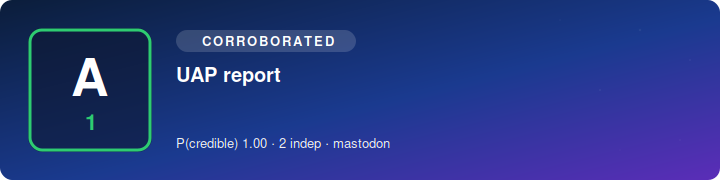
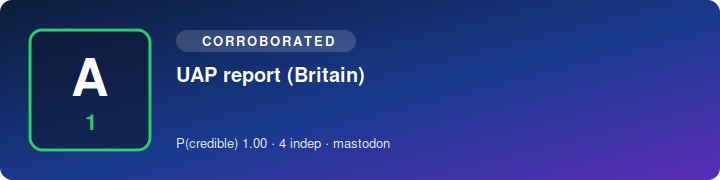
SITREP 2026-07-13 19:30 UTC

Changed region(s): [[0.3972, 0.3611, 0.5194, 0.4722], [0.3667, 0.75, 0.3972, 0.8333]]

diff --git a/index.html b/index.html
@@ -1,1 +1,1 @@
-<!doctype html><meta charset=utf-8><title>Science Bob News — SITREP</title><style>body{font:16px/1.5 system-ui,sans-serif;max-width:760px;margin:2rem auto;padding:0 1rem;color:#111}h1{font-size:1.5rem}h2{margin-top:1.6rem;border-bottom:1px solid #ddd;padding-bottom:.2rem}ul{list-style:none;padding:0}li{margin:.9rem 0}.hl{font-weight:600}.meta{color:#555;font-size:.85rem}.src{font-size:.85rem}.vid{font-size:.85rem;margin-top:.15rem}.card{display:block;max-width:100%;height:auto;border-radius:8px;margin:.4rem 0 .5rem}.upd{background:#fde68a;padding:0 .3rem;border-radius:.2rem;font-size:.75rem}.sub{color:#777;font-size:.85rem}footer{color:#777;font-size:.8rem;margin-top:2rem;border-top:1px solid #ddd;padding-top:.6rem}</style><h1>🛸 Science Bob News</h1><div class="sub">UAP / UFO / USO SITREP · updated 2026-07-13 19:20 UTC · automated</div><h2>Corroborated</h2><ul><li><img class="card" src="https://n4hy.github.io/sciencebobnews-site/card_c_1.svg" alt="" width="720" height="180"><div class="hl">UAP report (Britain)</div><div class="meta">reliability <b>A1</b> · P(credible)=1.0 · 3 independent source(s) · mastodon</div><div class="src"><a href="https://mast.lat/@MDT/116902480700455654">@MDT@mast.lat</a> · <a href="https://sociedad-noticias.com/2026/07/10/pentagono-publica-nuevos-videos-de-ovnis-difunde-el-registro-mas-nitido-de-un-uap/">@sociedad-noticias.com@sociedad-noticias.com</a></div></li><li><img class="card" src="https://n4hy.github.io/sciencebobnews-site/card_c_2.svg" alt="" width="720" height="180"><div class="hl">UAP report</div><div class="meta">reliability <b>A1</b> · P(credible)=1.0 · 3 independent source(s) · mastodon</div><div class="src"><a href="https://mastodon.social/@Mathrubhumi_English/116900592270182921">@Mathrubhumi_English</a> · <a href="https://mastodon.social/@danstafford/116897275469537224">@danstafford</a></div></li><li><img class="card" src="https://n4hy.github.io/sciencebobnews-site/card_c_3.svg" alt="" width="720" height="180"><div class="hl">Official UAP statement reported</div><div class="meta">reliability <b>A1</b> · P(credible)=1.0 · 2 independent source(s) · mastodon</div><div class="src"><a href="https://infosec.exchange/@n_dimension/116912312645826158">@n_dimension@infosec.exchange</a> · <a href="https://niwego.com/display/a081e5c3-266a-513b-928c-d65439022141">@x@niwego.com</a></div></li><li><img class="card" src="https://n4hy.github.io/sciencebobnews-site/card_c_4.svg" alt="" width="720" height="180"><div class="hl">UAP report</div><div class="meta">reliability <b>A1</b> · P(credible)=1.0 · 2 independent source(s) · mastodon</div><div class="src"><a href="https://mastodon.online/@KilleansRow/116881926520252497">@KilleansRow@mastodon.online</a> · <a href="https://mstdn.ca/@NMBA/116901382508640700">@NMBA@mstdn.ca</a></div></li></ul><h2>Developing / unconfirmed</h2><ul><li><img class="card" src="https://n4hy.github.io/sciencebobnews-site/card_d_1.svg" alt="" width="720" height="180"><div class="hl">UAP report (Deep)</div><div class="meta">reliability <b>A1</b> · P(credible)=1.0 · 1 independent source(s) · mastodon</div><div class="src"><a href="https://mastodon.au/@vibewire/116886730265403632">@vibewire@mastodon.au</a></div></li><li><img class="card" src="https://n4hy.github.io/sciencebobnews-site/card_d_2.svg" alt="" width="720" height="180"><div class="hl">UAP report</div><div class="meta">reliability <b>A1</b> · P(credible)=1.0 · 1 independent source(s) · mastodon</div><div class="src"><a href="https://rbfirehose.com/2026/07/11/people-pentagon-releases-new-ufo-records-detailing-decades-of-unexplained-aerial-encounters/">@researchbuzz_firehose@rbfirehose.com</a></div></li><li><img class="card" src="https://n4hy.github.io/sciencebobnews-site/card_d_3.svg" alt="" width="720" height="180"><div class="hl">Official UAP statement reported</div><div class="meta">reliability <b>A1</b> · P(credible)=1.0 · 2 independent source(s) · mastodon</div><div class="src"><a href="https://pinsapo.cc/@cypress/116897930814558805">@cypress@pinsapo.cc</a> · <a href="https://fed.brid.gy/r/https://in.mashable.com/science/111832/ufo-disclosure-2026-fourth-batch-of-40-files-released-by-department-of-war-heres-how-to-download">@in.mashable.com@web.brid.gy</a></div></li><li><img class="card" src="https://n4hy.github.io/sciencebobnews-site/card_d_4.svg" alt="" width="720" height="180"><div class="hl">UAP report (McMinnville)</div><div class="meta">reliability <b>A1</b> · P(credible)=1.0 · 1 independent source(s) · rumble</div><div class="src"><a href="https://www.youtube.com/watch?v=7OT6uJ0yzVY">@podcast</a></div><div class="vid">📹 <a href="https://www.youtube.com/watch?v=7OT6uJ0yzVY">video</a></div></li><li><img class="card" src="https://n4hy.github.io/sciencebobnews-site/card_d_5.svg" alt="" width="720" height="180"><div class="hl">UAP whistleblower testimony reported (Frank)</div><div class="meta">reliability <b>A1</b> · P(credible)=1.0 · 1 independent source(s) · rumble</div><div class="src"><a href="https://www.youtube.com/watch?v=CxvFVjJKZtA">@podcast</a></div><div class="vid">📹 <a href="https://www.youtube.com/watch?v=CxvFVjJKZtA">video</a></div></li></ul><footer><b>Powered by Science Bob News.</b> Free to use with credit (see LICENSE). Headlines are factual restatements in the engine's own words; click sources for originals. Single-origin reposts collapse to one source; prosaic candidates flagged where offered.</footer>
+<!doctype html><meta charset=utf-8><title>Science Bob News — SITREP</title><style>body{font:16px/1.5 system-ui,sans-serif;max-width:760px;margin:2rem auto;padding:0 1rem;color:#111}h1{font-size:1.5rem}h2{margin-top:1.6rem;border-bottom:1px solid #ddd;padding-bottom:.2rem}ul{list-style:none;padding:0}li{margin:.9rem 0}.hl{font-weight:600}.meta{color:#555;font-size:.85rem}.src{font-size:.85rem}.vid{font-size:.85rem;margin-top:.15rem}.card{display:block;max-width:100%;height:auto;border-radius:8px;margin:.4rem 0 .5rem}.upd{background:#fde68a;padding:0 .3rem;border-radius:.2rem;font-size:.75rem}.sub{color:#777;font-size:.85rem}footer{color:#777;font-size:.8rem;margin-top:2rem;border-top:1px solid #ddd;padding-top:.6rem}</style><h1>🛸 Science Bob News</h1><div class="sub">UAP / UFO / USO SITREP · updated 2026-07-13 19:30 UTC · automated</div><h2>Corroborated</h2><ul><li><img class="card" src="https://n4hy.github.io/sciencebobnews-site/card_c_1.svg" alt="" width="720" height="180"><div class="hl">UAP report</div><div class="meta">reliability <b>A1</b> · P(credible)=1.0 · 2 independent source(s) · mastodon</div><div class="src"><a href="https://mast.lat/@MDT/116902480700455654">@MDT@mast.lat</a> · <a href="https://sociedad-noticias.com/2026/07/10/pentagono-publica-nuevos-videos-de-ovnis-difunde-el-registro-mas-nitido-de-un-uap/">@sociedad-noticias.com@sociedad-noticias.com</a></div></li><li><img class="card" src="https://n4hy.github.io/sciencebobnews-site/card_c_2.svg" alt="" width="720" height="180"><div class="hl">UAP report</div><div class="meta">reliability <b>A1</b> · P(credible)=1.0 · 3 independent source(s) · mastodon</div><div class="src"><a href="https://mastodon.social/@Mathrubhumi_English/116900592270182921">@Mathrubhumi_English</a> · <a href="https://mastodon.social/@danstafford/116897275469537224">@danstafford</a></div></li><li><img class="card" src="https://n4hy.github.io/sciencebobnews-site/card_c_3.svg" alt="" width="720" height="180"><div class="hl">Official UAP statement reported</div><div class="meta">reliability <b>A1</b> · P(credible)=1.0 · 2 independent source(s) · mastodon</div><div class="src"><a href="https://infosec.exchange/@n_dimension/116912312645826158">@n_dimension@infosec.exchange</a> · <a href="https://niwego.com/display/a081e5c3-266a-513b-928c-d65439022141">@x@niwego.com</a></div></li><li><img class="card" src="https://n4hy.github.io/sciencebobnews-site/card_c_4.svg" alt="" width="720" height="180"><div class="hl">UAP report (Britain)</div><div class="meta">reliability <b>A1</b> · P(credible)=1.0 · 4 independent source(s) · mastodon</div><div class="src"><a href="https://spacey.space/@spaceflight/116914303734987699">@spaceflight@spacey.space</a> · <a href="https://infosec.exchange/@n_dimension/116910406370762601">@n_dimension@infosec.exchange</a></div></li></ul><h2>Developing / unconfirmed</h2><ul><li><img class="card" src="https://n4hy.github.io/sciencebobnews-site/card_d_1.svg" alt="" width="720" height="180"><div class="hl">UAP report (Deep)</div><div class="meta">reliability <b>A1</b> · P(credible)=1.0 · 1 independent source(s) · mastodon</div><div class="src"><a href="https://mastodon.au/@vibewire/116886730265403632">@vibewire@mastodon.au</a></div></li><li><img class="card" src="https://n4hy.github.io/sciencebobnews-site/card_d_2.svg" alt="" width="720" height="180"><div class="hl">UAP report</div><div class="meta">reliability <b>A1</b> · P(credible)=1.0 · 1 independent source(s) · mastodon</div><div class="src"><a href="https://rbfirehose.com/2026/07/11/people-pentagon-releases-new-ufo-records-detailing-decades-of-unexplained-aerial-encounters/">@researchbuzz_firehose@rbfirehose.com</a></div></li><li><img class="card" src="https://n4hy.github.io/sciencebobnews-site/card_d_3.svg" alt="" width="720" height="180"><div class="hl">Official UAP statement reported</div><div class="meta">reliability <b>A1</b> · P(credible)=1.0 · 2 independent source(s) · mastodon</div><div class="src"><a href="https://pinsapo.cc/@cypress/116897930814558805">@cypress@pinsapo.cc</a> · <a href="https://fed.brid.gy/r/https://in.mashable.com/science/111832/ufo-disclosure-2026-fourth-batch-of-40-files-released-by-department-of-war-heres-how-to-download">@in.mashable.com@web.brid.gy</a></div></li><li><img class="card" src="https://n4hy.github.io/sciencebobnews-site/card_d_4.svg" alt="" width="720" height="180"><div class="hl">UAP report (McMinnville)</div><div class="meta">reliability <b>A1</b> · P(credible)=1.0 · 1 independent source(s) · rumble</div><div class="src"><a href="https://www.youtube.com/watch?v=7OT6uJ0yzVY">@podcast</a></div><div class="vid">📹 <a href="https://www.youtube.com/watch?v=7OT6uJ0yzVY">video</a></div></li><li><img class="card" src="https://n4hy.github.io/sciencebobnews-site/card_d_5.svg" alt="" width="720" height="180"><div class="hl">UAP whistleblower testimony reported (Frank)</div><div class="meta">reliability <b>A1</b> · P(credible)=1.0 · 1 independent source(s) · rumble</div><div class="src"><a href="https://www.youtube.com/watch?v=CxvFVjJKZtA">@podcast</a></div><div class="vid">📹 <a href="https://www.youtube.com/watch?v=CxvFVjJKZtA">video</a></div></li></ul><footer><b>Powered by Science Bob News.</b> Free to use with credit (see LICENSE). Headlines are factual restatements in the engine's own words; click sources for originals. Single-origin reposts collapse to one source; prosaic candidates flagged where offered.</footer>

diff --git a/sitrep.md b/sitrep.md
@@ -1,11 +1,11 @@
 # 🛸 Science Bob News — UAP / UFO / USO SITREP
-*Updated 2026-07-13 19:20 UTC · auto-generated · sources credited & linked · reliability ratings are automated, not editorial*
+*Updated 2026-07-13 19:30 UTC · auto-generated · sources credited & linked · reliability ratings are automated, not editorial*
 
 ## Corroborated
 
-![UAP report (Britain)](https://n4hy.github.io/sciencebobnews-site/card_c_1.svg)
-1. **UAP report (Britain)**  
-   reliability **A1** · P(credible)=1.0 · 3 independent source(s) · mastodon  
+![UAP report](https://n4hy.github.io/sciencebobnews-site/card_c_1.svg)
+1. **UAP report**  
+   reliability **A1** · P(credible)=1.0 · 2 independent source(s) · mastodon  
    [@MDT@mast.lat](https://mast.lat/@MDT/116902480700455654) · [@sociedad-noticias.com@sociedad-noticias.com](https://sociedad-noticias.com/2026/07/10/pentagono-publica-nuevos-videos-de-ovnis-difunde-el-registro-mas-nitido-de-un-uap/)
 
 ![UAP report](https://n4hy.github.io/sciencebobnews-site/card_c_2.svg)
@@ -18,10 +18,10 @@
    reliability **A1** · P(credible)=1.0 · 2 independent source(s) · mastodon  
    [@n_dimension@infosec.exchange](https://infosec.exchange/@n_dimension/116912312645826158) · [@x@niwego.com](https://niwego.com/display/a081e5c3-266a-513b-928c-d65439022141)
 
-![UAP report](https://n4hy.github.io/sciencebobnews-site/card_c_4.svg)
-4. **UAP report**  
-   reliability **A1** · P(credible)=1.0 · 2 independent source(s) · mastodon  
-   [@KilleansRow@mastodon.online](https://mastodon.online/@KilleansRow/116881926520252497) · [@NMBA@mstdn.ca](https://mstdn.ca/@NMBA/116901382508640700)
+![UAP report (Britain)](https://n4hy.github.io/sciencebobnews-site/card_c_4.svg)
+4. **UAP report (Britain)**  
+   reliability **A1** · P(credible)=1.0 · 4 independent source(s) · mastodon  
+   [@spaceflight@spacey.space](https://spacey.space/@spaceflight/116914303734987699) · [@n_dimension@infosec.exchange](https://infosec.exchange/@n_dimension/116910406370762601)
 
 ## Developing / unconfirmed
 
